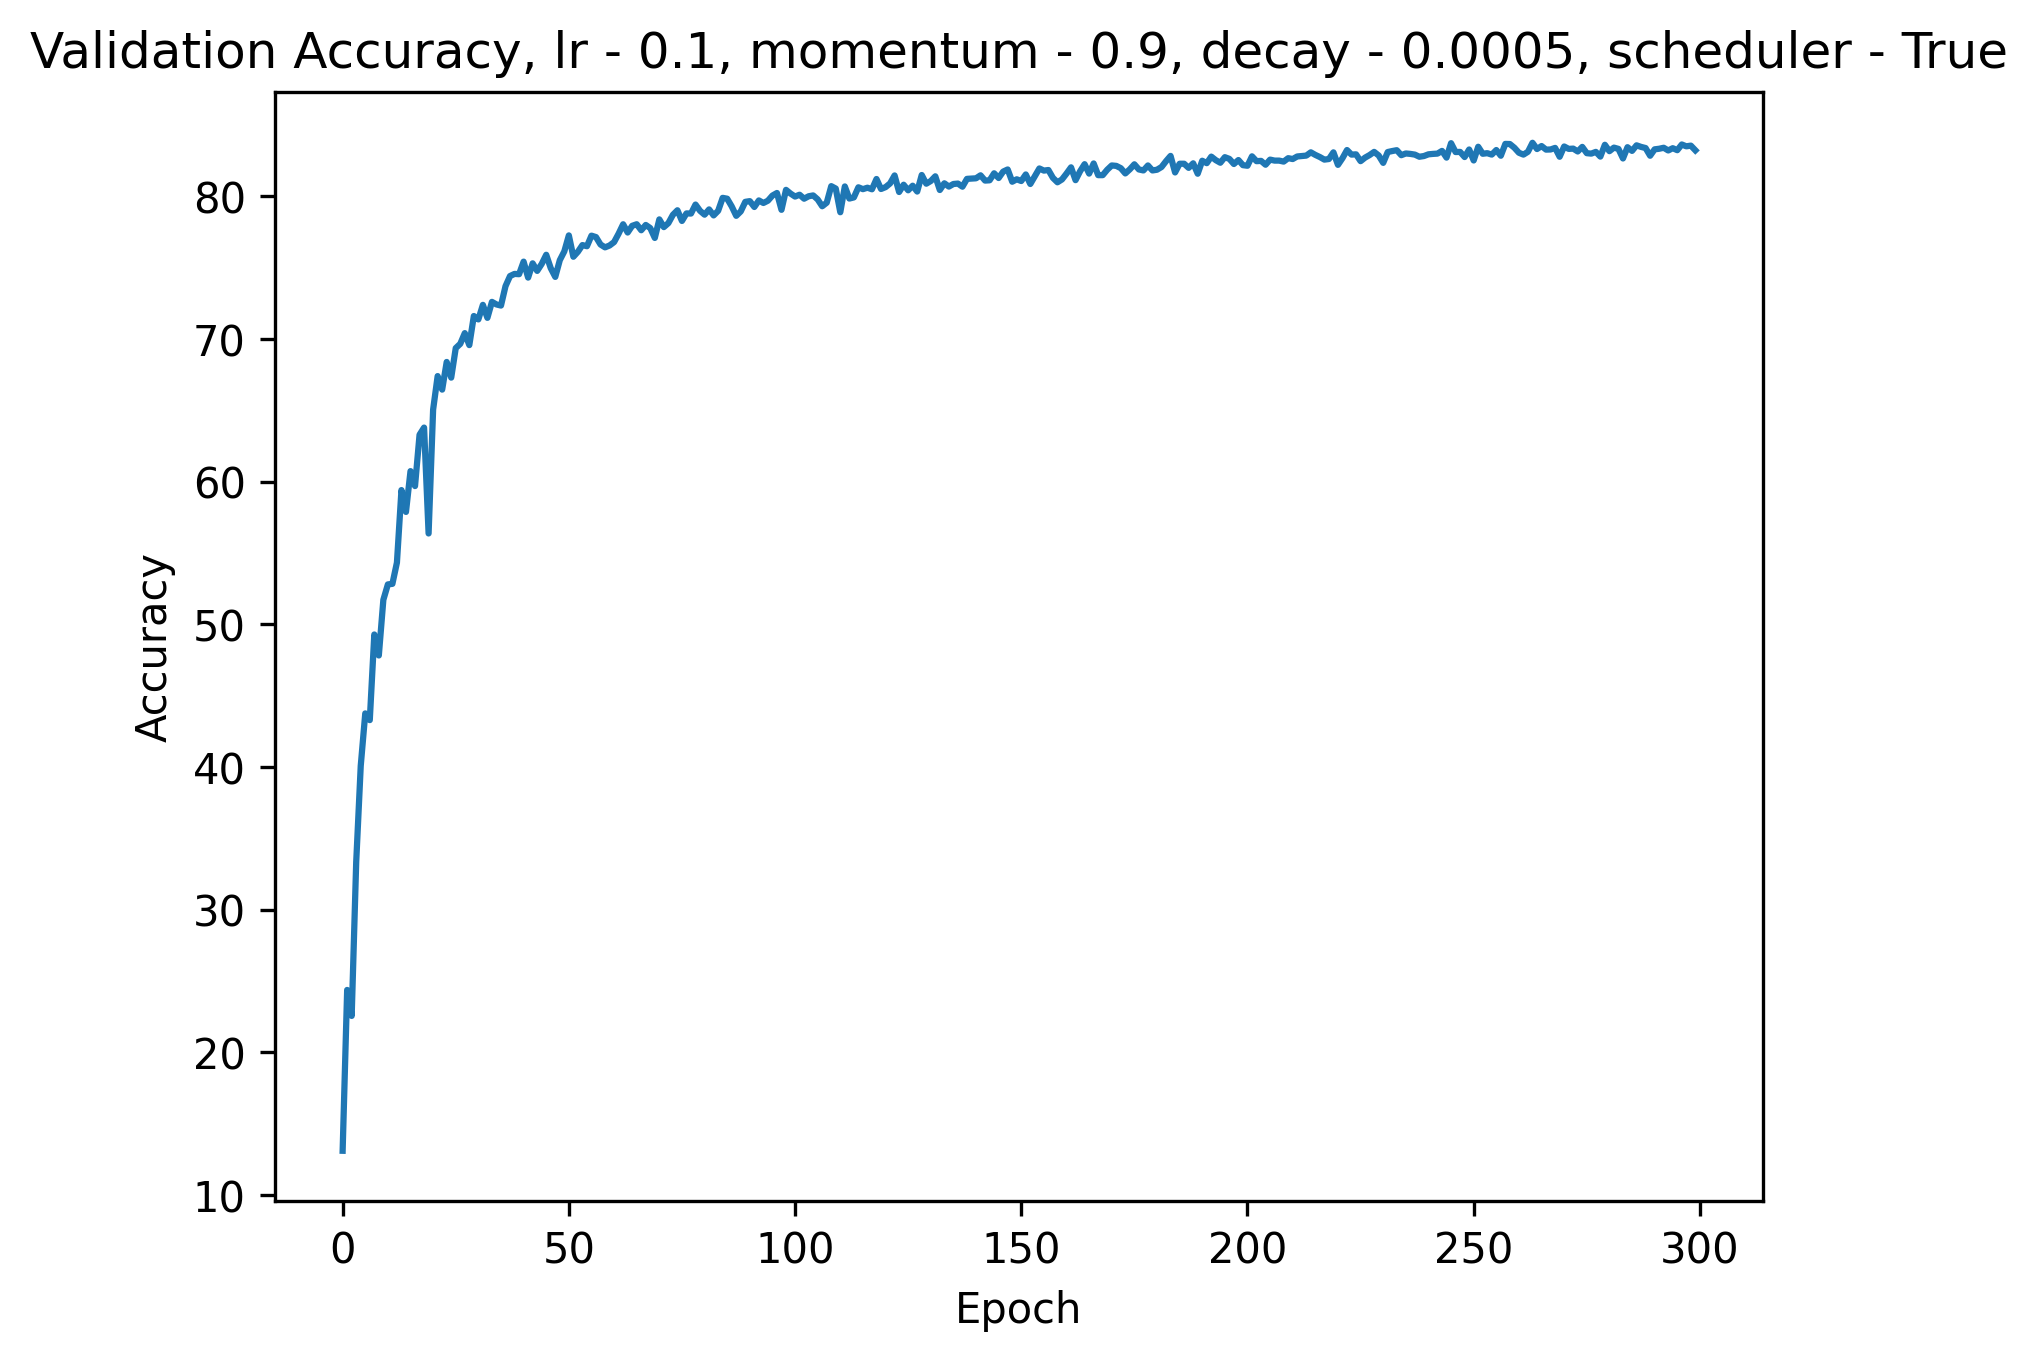
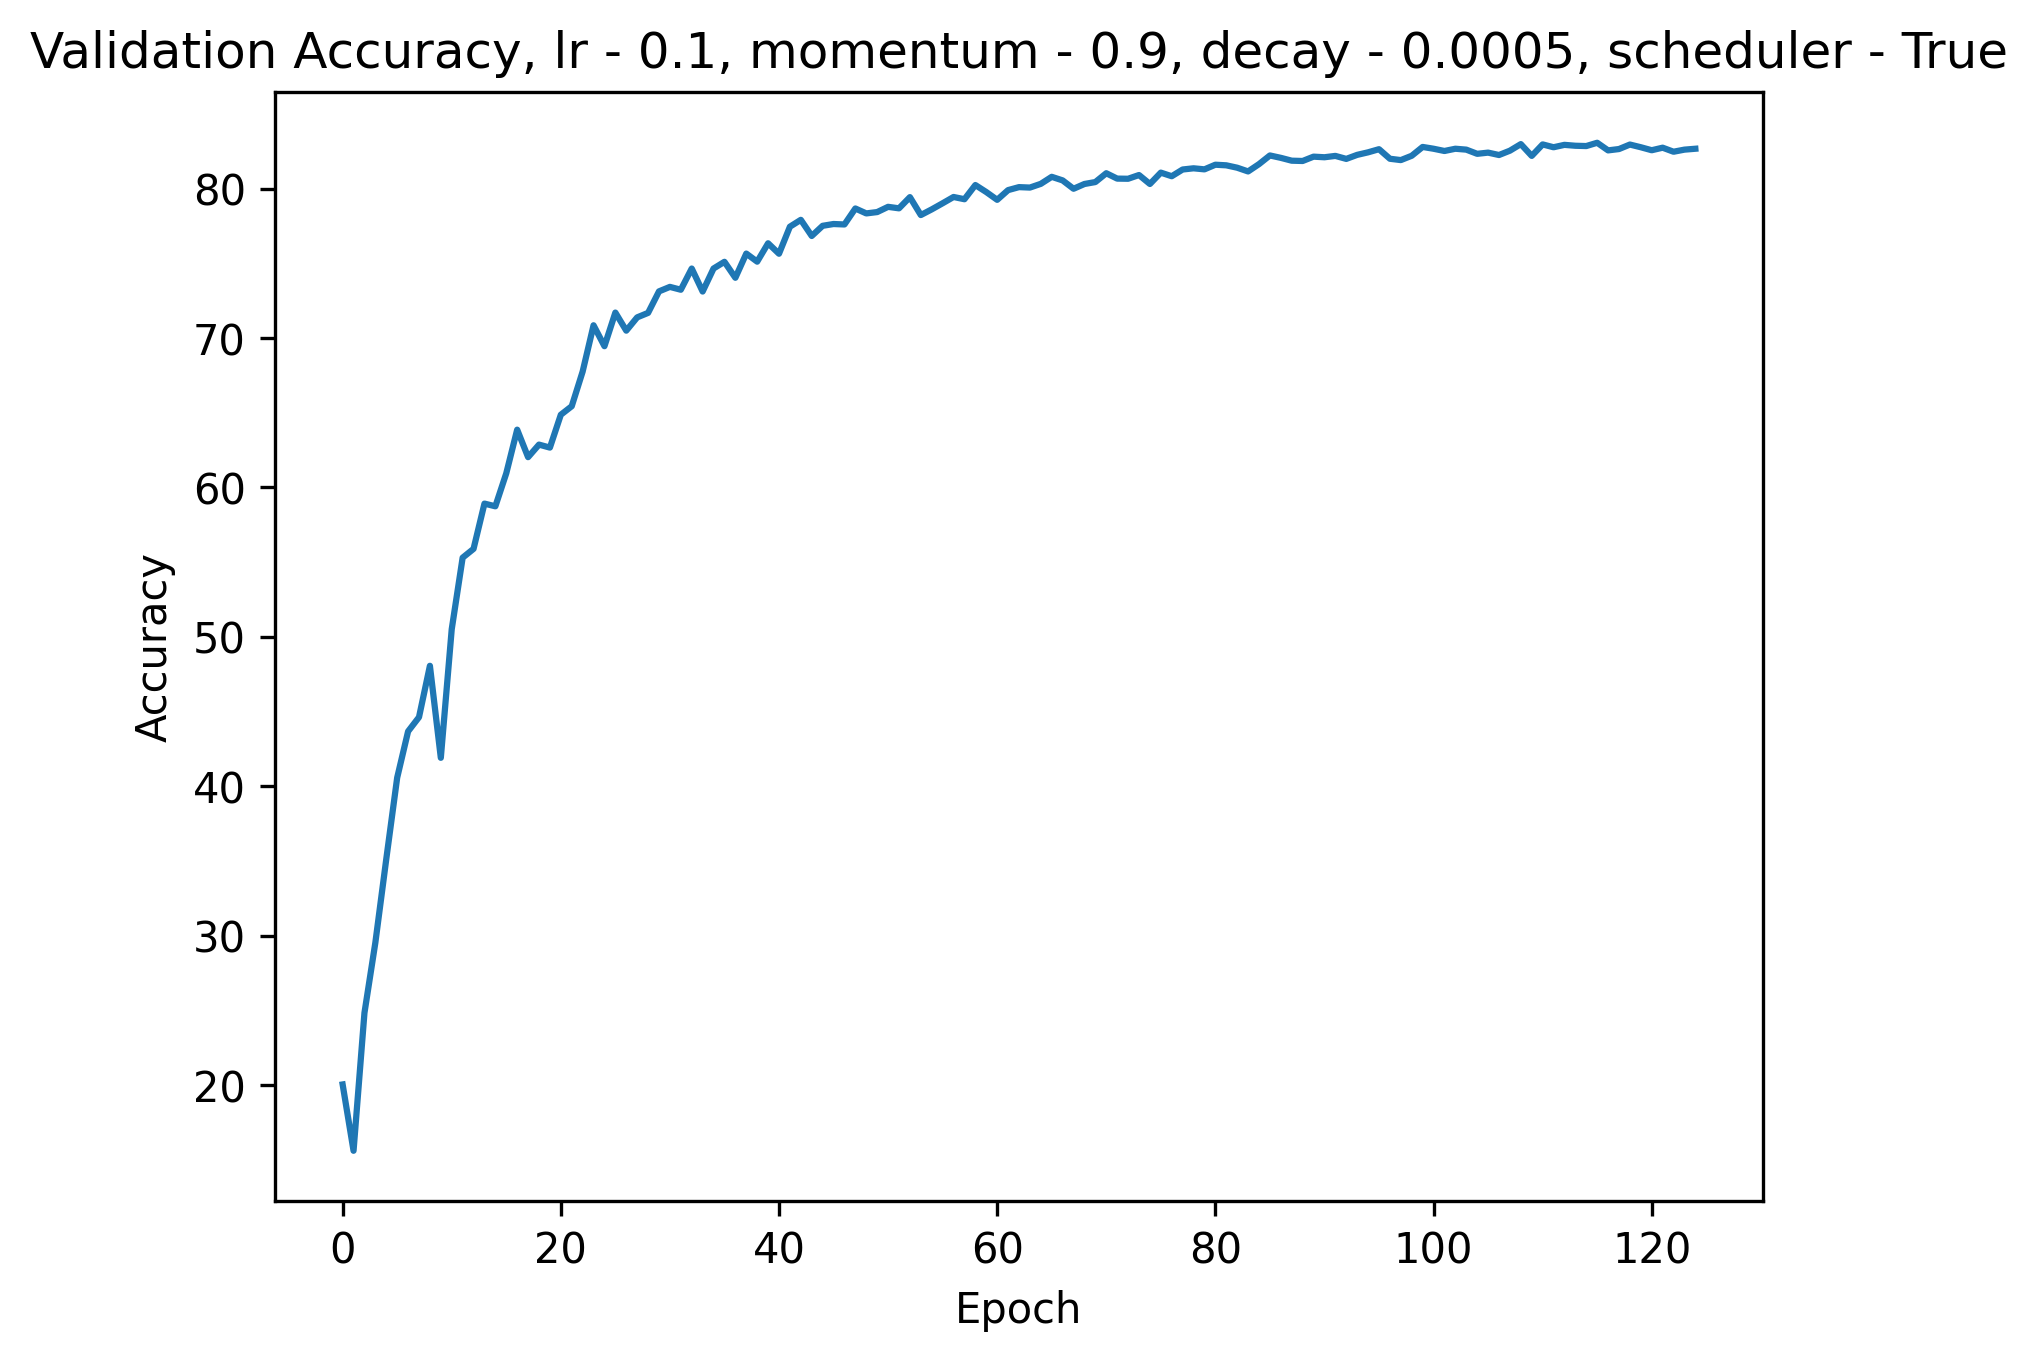
- add batch norm layer, - add test accuracy to the graph, - add new best model

diff --git a/src/Action.py b/src/Action.py
@@ -13,15 +13,19 @@ class Action:
 
     def Train(self):
         print("Training network")
-        best_acc = 0
+        bestValAcc = 0
+        trainAcc = 0
+        total = 0
+        correct = 0
         trainLosses = []
+        trainAccuracies = []
         valLosses = []
         valAccuracies = []
     
         self.neuralNetwork.train()
 
         for epoch in range(self.neuralNetwork.tMax):
-            print(f"Training epoch {epoch}...")
+            print(f"======================Training epoch {epoch}======================")
             running_loss = 0.0
 
             for i, data in enumerate(self.neuralNetwork.train_loader):
@@ -30,38 +34,62 @@ class Action:
 
                 self.neuralNetwork.optimizer.zero_grad()
                 outputs = self.neuralNetwork(inputs)
+                _, predicted = torch.max(outputs, 1)
+
                 loss = self.neuralNetwork.loss_function(outputs, labels)
                 loss.backward()
                 self.neuralNetwork.optimizer.step()
+
                 running_loss += loss.item()
-            
-            print(f"Loss: {running_loss / len(self.neuralNetwork.train_loader):.4f}")
+
+                total += labels.size(0)
+                correct += (predicted == labels).sum().item()
+                
+            trainAcc = 100 * correct / total
+            trainAccuracies.append(trainAcc)
+
+            print(f"    Train Loss:             {running_loss / len(self.neuralNetwork.train_loader):.4f}")
+            print(f"    Train Accuracy:         {trainAcc:.2f}%")
 
             trainLosses.append(running_loss / len(self.neuralNetwork.train_loader))
-            val_acc, valLoss = self.Validate()
-            valAccuracies.append(val_acc)
+            valAcc, valLoss = self.Validate()
+            valAccuracies.append(valAcc)
             valLosses.append(valLoss)
             self.neuralNetwork.train()
 
-            if val_acc > best_acc:
-                best_acc = val_acc
+            if valAcc > bestValAcc:
+                bestValAcc = valAcc
                 torch.save(self.neuralNetwork.state_dict(), "model/best_model.pth")
-                print("Saved best model")
+                print("    Saved best model")
 
             self.neuralNetwork.scheduler.step()
 
         torch.save(self.neuralNetwork.state_dict(), "model/trained_net.pth")
-        print("Network trained and saved")
-        self.ShowPlot(trainLosses, "Epoch", "Loss", "Training Loss", True)
-        self.ShowPlot(valLosses, "Epoch", "Loss", "Validation Loss", True)
-        self.ShowPlot(valAccuracies, "Epoch", "Accuracy", "Validation Accuracy", True)
+        print("    Network trained and saved")
+        self.ShowPlot(trainLosses, valLosses, trainAccuracies, valAccuracies, True)
+        # self.ShowPlot(valLosses, "Epoch", "Loss", "Validation Loss", True)
+        # self.ShowPlot(valAccuracies, "Epoch", "Accuracy", "Validation Accuracy", True)
 
-    def ShowPlot(self, data, xlabel, ylabel, title, save):
-        name = f"{title}, lr - {self.neuralNetwork.learningRate}, momentum - {self.neuralNetwork.momentum}, decay - {self.neuralNetwork.decay}, scheduler - True"
-        plt.plot(data)
-        plt.xlabel(xlabel)
-        plt.ylabel(ylabel)
-        plt.title(name)
+    def ShowPlot(self, data1, data2, data3, data4, save):
+        name = f"Loss-Accuracy, lr - {self.neuralNetwork.learningRate}, momentum - {self.neuralNetwork.momentum}, decay - {self.neuralNetwork.decay}, scheduler - True"
+        plt.figure(figsize = (10, 4))
+        plt.subplot(1, 2, 1)#{
+        plt.plot(data1, label = "Train Loss")
+        plt.plot(data2, label = "Validation Loss")
+        plt.xlabel("Epoch")
+        plt.ylabel("Loss")
+        plt.title("Loss Graph")
+        plt.legend()
+        #}
+        plt.subplot(1, 2, 2)#{
+        plt.plot(data3, label = "Train Accuracy")
+        plt.plot(data4, label = "Validation Accuracy")
+        plt.xlabel("Epoch")
+        plt.ylabel("Accuracy")
+        plt.title("Accuracy Graph")
+        plt.legend()
+        #}
+
         if(save):
             plt.savefig(f"figure/{name}.png", dpi=300, bbox_inches="tight")
         plt.show()
@@ -89,8 +117,8 @@ class Action:
         accuracy = 100 * correct / total
         avgLoss = running_loss / len(self.neuralNetwork.val_loader)
 
-        print(f"Validation Loss: {avgLoss:.4f}")
-        print(f"Accuracy: {accuracy}%")
+        print(f"    Validation Loss:        {avgLoss:.4f}")
+        print(f"    Validation Accuracy:    {accuracy:.2f}%")
 
         return accuracy, avgLoss
 

diff --git a/src/NeuralNetwork.py b/src/NeuralNetwork.py
@@ -11,30 +11,35 @@ class NeuralNetwork(nn.Module):
         self.momentum = 0.9
         self.decay = 5e-4
         self.tMax = 125
-        self.learningRateMin = 0.00001
+        self.learningRateMin = 0.0001
 
         self.InitLayers()
         self.PrepareTransforms()
 
         self.loss_function = nn.CrossEntropyLoss()
         self.optimizer = optim.SGD(self.parameters(), lr = self.learningRate, momentum = self.momentum, weight_decay = self.decay)
+        # self.optimizer = optim.AdamW(self.parameters(), lr = self.learningRate, weight_decay = self.decay)
         self.scheduler = torch.optim.lr_scheduler.CosineAnnealingLR(self.optimizer, T_max = self.tMax, eta_min = self.learningRateMin)
         
     def InitLayers(self):
-        self.conv1 = nn.Conv2d(3, 32, 3)
-        self.conv2 = nn.Conv2d(32, 64, 3)
-        self.conv3 = nn.Conv2d(64, 128, 3)
+        self.conv1 = nn.Conv2d(3, 32, 3, padding = 1)
+        self.conv2 = nn.Conv2d(32, 64, 3, padding = 1)
+        self.conv3 = nn.Conv2d(64, 128, 3, padding = 1)
+
+        self.bn1 = nn.BatchNorm2d(32)
+        self.bn2 = nn.BatchNorm2d(64)
+        self.bn3 = nn.BatchNorm2d(128)
 
         self.pool = nn.MaxPool2d(2, 2)
         self.dropout = nn.Dropout(0.25)
         
-        self.fc1 = nn.Linear(128 * 2 * 2, 256)
+        self.fc1 = nn.Linear(128 * 4 * 4, 256)
         self.fc2 = nn.Linear(256, 10)
 
     def forward(self, x):
-        x = self.pool(F.relu(self.conv1(x)))
-        x = self.pool(F.relu(self.conv2(x)))
-        x = self.pool(F.relu(self.conv3(x)))
+        x = self.pool(F.relu(self.bn1(self.conv1(x))))
+        x = self.pool(F.relu(self.bn2(self.conv2(x))))
+        x = self.pool(F.relu(self.bn3(self.conv3(x))))
 
         x = torch.flatten(x, 1)
         x = self.dropout(x)
@@ -46,7 +51,7 @@ class NeuralNetwork(nn.Module):
     def PrepareTransforms(self):
         self.trainTransform = transforms.Compose([
             transforms.RandomHorizontalFlip(),
-            # transforms.ColorJitter(),
+            transforms.ColorJitter(brightness = 0.2, contrast = 0.2, saturation = 0.2),
             # transforms.RandomGrayscale(),
             transforms.RandomCrop(32, padding=4),
             transforms.ToTensor(),